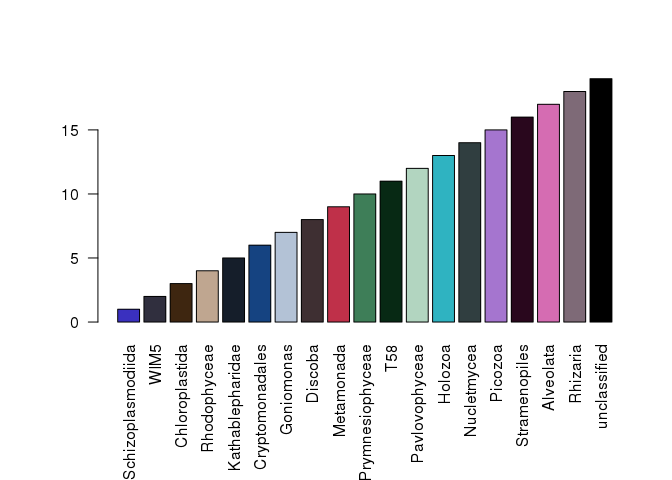
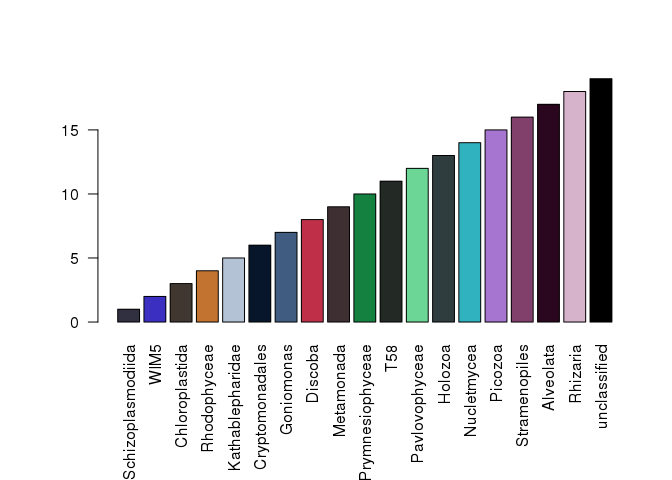
update to rmd and associated files

Changed region(s): [[0.1562, 0.2812, 0.7188, 0.6875], [0.75, 0.1875, 0.875, 0.6875]]

diff --git a/colour_palette_making.html b/colour_palette_making.html
@@ -71,8 +71,8 @@ img {
 <div id="overall-motivation" class="section level1">
 <h1>Overall motivation:</h1>
 <p>I wanted to pick many related colours from one colour.</p>
-<div id="more-specific-motivatation" class="section level2">
-<h2>More specific motivatation:</h2>
+<div id="more-specific-motivation" class="section level2">
+<h2>More specific motivation:</h2>
 <p>I wanted to standardize my colour scheme that I am using for density plots, line graphs and other plots for some microbial data that is taxonomically assigned (e.g. 18S and 16S). It drives me nuts how often I see plots of taxonomic data that are not consistent between projects or even within projects.</p>
 <p>This is my attempt to pick some colour palettes at the Class level from a palette I worked out at the phylum level from the <a href="http://tools.medialab.sciences-po.fr/iwanthue/">IwantHue site</a>. I will use the functions describe here to also do this for order and family levels.</p>
 </div>
@@ -89,7 +89,6 @@ img {
 <div id="load-packages" class="section level2">
 <h2>Load packages</h2>
 <pre class="r"><code>## idea to make an overall palette where the phyla will be vibrant dinstinct colours and then the orders will be distinct colours within that. 
-#library(reshape2)
 library(caret)</code></pre>
 <pre><code>## Loading required package: lattice
 ## Loading required package: ggplot2</code></pre>
@@ -200,19 +199,19 @@ class_palette_euks &lt;- c(class_palette_euks,&quot;black&quot;)
 names(class_palette_euks)[length(class_palette_euks)] &lt;- &quot;unclassified&quot;
 class_palette_euks</code></pre>
 <pre><code>## Schizoplasmodiida              WIM5    Chloroplastida      Rhodophyceae 
-##         &quot;#3A30BF&quot;         &quot;#302F3E&quot;         &quot;#3E2610&quot;         &quot;#BFA690&quot; 
+##         &quot;#313040&quot;         &quot;#3A2FC1&quot;         &quot;#403730&quot;         &quot;#C1732F&quot; 
 ##  Kathablepharidae   Cryptomonadales        Goniomonas           Discoba 
-##         &quot;#151E2A&quot;         &quot;#154381&quot;         &quot;#B3C2D6&quot;         &quot;#3E2F32&quot; 
+##         &quot;#B4C2D6&quot;         &quot;#07162A&quot;         &quot;#415C81&quot;         &quot;#BF2F48&quot; 
 ##        Metamonada  Prymnesiophyceae               T58    Pavlovophyceae 
-##         &quot;#BF3049&quot;         &quot;#3E7E58&quot;         &quot;#072914&quot;         &quot;#B2D5C0&quot; 
+##         &quot;#3E2F32&quot;         &quot;#158141&quot;         &quot;#232A26&quot;         &quot;#6CD697&quot; 
 ##           Holozoa       Nucletmycea           Picozoa     Stramenopiles 
-##         &quot;#2FB3C1&quot;         &quot;#303E40&quot;         &quot;#A575CF&quot;         &quot;#29071D&quot; 
+##         &quot;#2F3D3E&quot;         &quot;#30B2BF&quot;         &quot;#A575CF&quot;         &quot;#81406B&quot; 
 ##         Alveolata          Rhizaria      unclassified 
-##         &quot;#D56CB2&quot;         &quot;#7E6A77&quot;           &quot;black&quot;</code></pre>
+##         &quot;#2A071E&quot;         &quot;#D6B3CA&quot;           &quot;black&quot;</code></pre>
 <p>Let’s have a look at this one:</p>
 <pre class="r"><code>par(oma=c(3,1,0,0)) ## so plots are not clipped
 barplot(seq(length(class_palette_euks)), col=class_palette_euks,names.arg=names(class_palette_euks), las=2)</code></pre>
[2 lines of base64/hex data omitted]
 <p>You can see that many classes are split up into similar colours and some, like Picozoa, remain the same colour</p>
 <p>Save this palette:</p>
 <pre class="r"><code>save(class_palette_euks, file = &quot;./class_palette_euks.txt&quot;)

diff --git a/colour_palette_making.md b/colour_palette_making.md
@@ -24,7 +24,6 @@ I wanted to use the same hue from phyla downwards and then for each phylum use a
 
 ```r
 ## idea to make an overall palette where the phyla will be vibrant dinstinct colours and then the orders will be distinct colours within that. 
-#library(reshape2)
 library(caret)
 ```
 
@@ -196,15 +195,15 @@ class_palette_euks
 
 ```
 ## Schizoplasmodiida              WIM5    Chloroplastida      Rhodophyceae 
-##         "#3A30BF"         "#302F3E"         "#3E2610"         "#BFA690" 
+##         "#313040"         "#3A2FC1"         "#403730"         "#C1732F" 
 ##  Kathablepharidae   Cryptomonadales        Goniomonas           Discoba 
-##         "#151E2A"         "#154381"         "#B3C2D6"         "#3E2F32" 
+##         "#B4C2D6"         "#07162A"         "#415C81"         "#BF2F48" 
 ##        Metamonada  Prymnesiophyceae               T58    Pavlovophyceae 
-##         "#BF3049"         "#3E7E58"         "#072914"         "#B2D5C0" 
+##         "#3E2F32"         "#158141"         "#232A26"         "#6CD697" 
 ##           Holozoa       Nucletmycea           Picozoa     Stramenopiles 
-##         "#2FB3C1"         "#303E40"         "#A575CF"         "#29071D" 
+##         "#2F3D3E"         "#30B2BF"         "#A575CF"         "#81406B" 
 ##         Alveolata          Rhizaria      unclassified 
-##         "#D56CB2"         "#7E6A77"           "black"
+##         "#2A071E"         "#D6B3CA"           "black"
 ```
 
 Let's have a look at this one:
